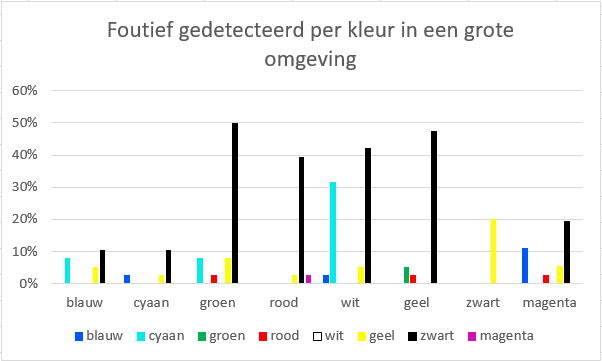
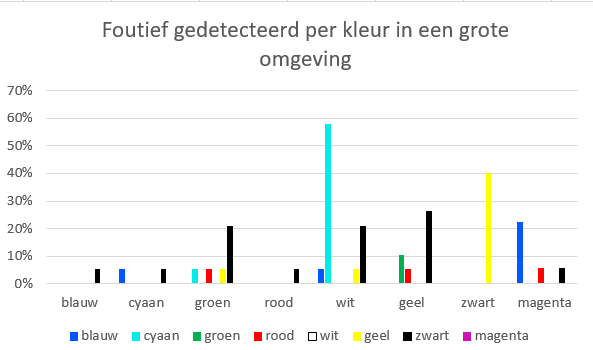
Changed some pictures

diff --git a/Verslag/ST2/omgevingsfactoren.tex b/Verslag/ST2/omgevingsfactoren.tex
@@ -1,28 +1,32 @@
 Dit verslag kijkt ook naar of verschillende omgevingsfactoren een effect hebben op het herkennen van kleuren. Zo zou de grootte van de omgeving de herkenning kunnen verbeteren of verslechteren, meer omgeving betekent namelijk dat de camera meer omgevingslicht binnenkrijgt. Alsook het licht kan een beïnvloedende factor zijn, de foto's behandelen twee soorten lichtinval: geen en artificieel licht. Buitenlicht zal niet besproken worden, de {\it Screen Caster} gaat ervan uit dat de schermen binnenshuis staan. Laatste omgevingsfactor is de helderheid van het scherm zelf. Heeft dit een grote invloed op de detectie? En hebben verschillende factoren een invloed op elkaar?
 
 \subsubsection{Omgeving}
-De foto's hebben verschillende groottes van omgeving. De omgeving kan groot ($\approx 80\%$), gemiddeld ($\approx 40\%$), klein ($\approx 10\%$) of niet aanwezig zijn. In figuur \ref{fig:omgeving} zijn de bevindingen weergegeven. Per grootte van omgeving staat er weergegeven hoeveel procent van elke kleur juist werd gedetecteerd.
+De foto's hebben verschillende groottes van omgeving. De omgeving kan groot ($\approx 80\%$), gemiddeld ($\approx 40\%$), klein ($\approx 10\%$) of niet aanwezig zijn. In figuur \ref{fig:omgeving} (a) zijn de bevindingen weergegeven. Per grootte van omgeving staat er weergegeven hoeveel procent van elke kleur juist werd gedetecteerd.
 
-De detectie van kleuren gebeurd het beste bij een gemiddelde of kleine omgevingsgrootte. Wanneer de omgeving groot is, scoort de herkenning het slechtst. In figuur \ref{fig:groteOmgevingFoutHerkent} staat per kleur welke kleur foutief is herkent, enkel en alleen bij een grote omgeving. Wat opvalt is dat vooral zwart als foute kleur naar voor komt en dan vooral bij groen, rood, wit en geel. Dit is toe te wijzen aan het feit dat met meer lichtinval de schermen donkerder tonen op de foto. Door een grotere omgeving zal de artificiële inteligentie in de camera de focus niet meer op het scherm leggen. Als zwart niet meer nodig is en de restrictie op de lichtheid bij HSL niet meer geldt, kan dit probleem opgelost zijn, dit vergt echter verder onderzoek.
+De detectie van kleuren gebeurd het beste bij een gemiddelde of kleine omgevingsgrootte. Wanneer de omgeving groot is, scoort de herkenning het slechtst. In figuur \ref{fig:omgeving} (b) staat per kleur welke kleur foutief is herkent, enkel en alleen bij een grote omgeving. Wat opvalt is dat vooral zwart als foute kleur naar voor komt en dan vooral bij groen, rood, wit en geel. Dit is toe te wijzen aan het feit dat met meer lichtinval de schermen donkerder tonen op de foto. Door een grotere omgeving zal de artificiële inteligentie in de camera de focus niet meer op het scherm leggen. Als zwart niet meer nodig is en de restrictie op de lichtheid bij HSL niet meer geldt, kan dit probleem opgelost zijn, dit vergt echter verder onderzoek.
 \begin{figure}
 	\begin{subfigure}{0.5\textwidth}
 	\centering
 	\includegraphics{img/Environment}
-	\label{fig:omgeving}
 	\caption{Per kleur correct gedetecteerd met gegeven omgevingsgrootte.}
 	\end{subfigure}
 	
 	\begin{subfigure}{0.5\textwidth}
 	\centering
 	\includegraphics{img/BigEnvPerColor}
-	\label{fig:groteOmgevingFoutHerkent}
 	\caption{Per kleur de foutief herkende kleur in grote omgeving.}
 	\end{subfigure}
 	\caption{Grafieken met betrekking tot de omgevingsgrootte.}
+	\label{fig:omgeving}
 \end{figure}
 
 \subsubsection{Lichtinval}
-Dit verslag behandelt twee soorten lichtinval, artificieel en helemaal geen lichtinval. Een zeer opmerkelijk resultaat bij vergelijking HSL en RGB, zie figuren \ref{fig:hslrgbnone} en \ref{fig:hslrgbart} waaruit blijkt dat HSL en RGB dezelfde trend vertonen bij andere helderheid van het scherm. Aangezien HSL niet naar de lichtheid en saturatie van de kleur kijkt, lijkt het dat deze geen grote verschillen zal tonen bij verschillende lichtinval. %Ik denk dat ik hier ergens foute conclusies trek dus, moet even nagekeken worden!!
-%ook nog figuren aan toevoegen x
+Dit verslag behandelt twee soorten lichtinval, artificieel en helemaal geen lichtinval. 
 
+\begin{figure}
+	\centering
+	\includegraphics{img/Lightning}
+	\label{fig:lichtinval}
+	\caption{Procent correct gedecteerd per kleur gegeven de belichting.}
+\end{figure}
 \subsubsection{Helderheid scherm}

diff --git a/Verslag/ST2/main.tex b/Verslag/ST2/main.tex
@@ -9,7 +9,6 @@
 \usepackage[dutch]{babel}
 \usepackage{gensymb}
 
-
 % https://tex.stackexchange.com/questions/94032/fancy-tables-in-latex
 \usepackage[table]{xcolor}
 \usepackage{booktabs}
